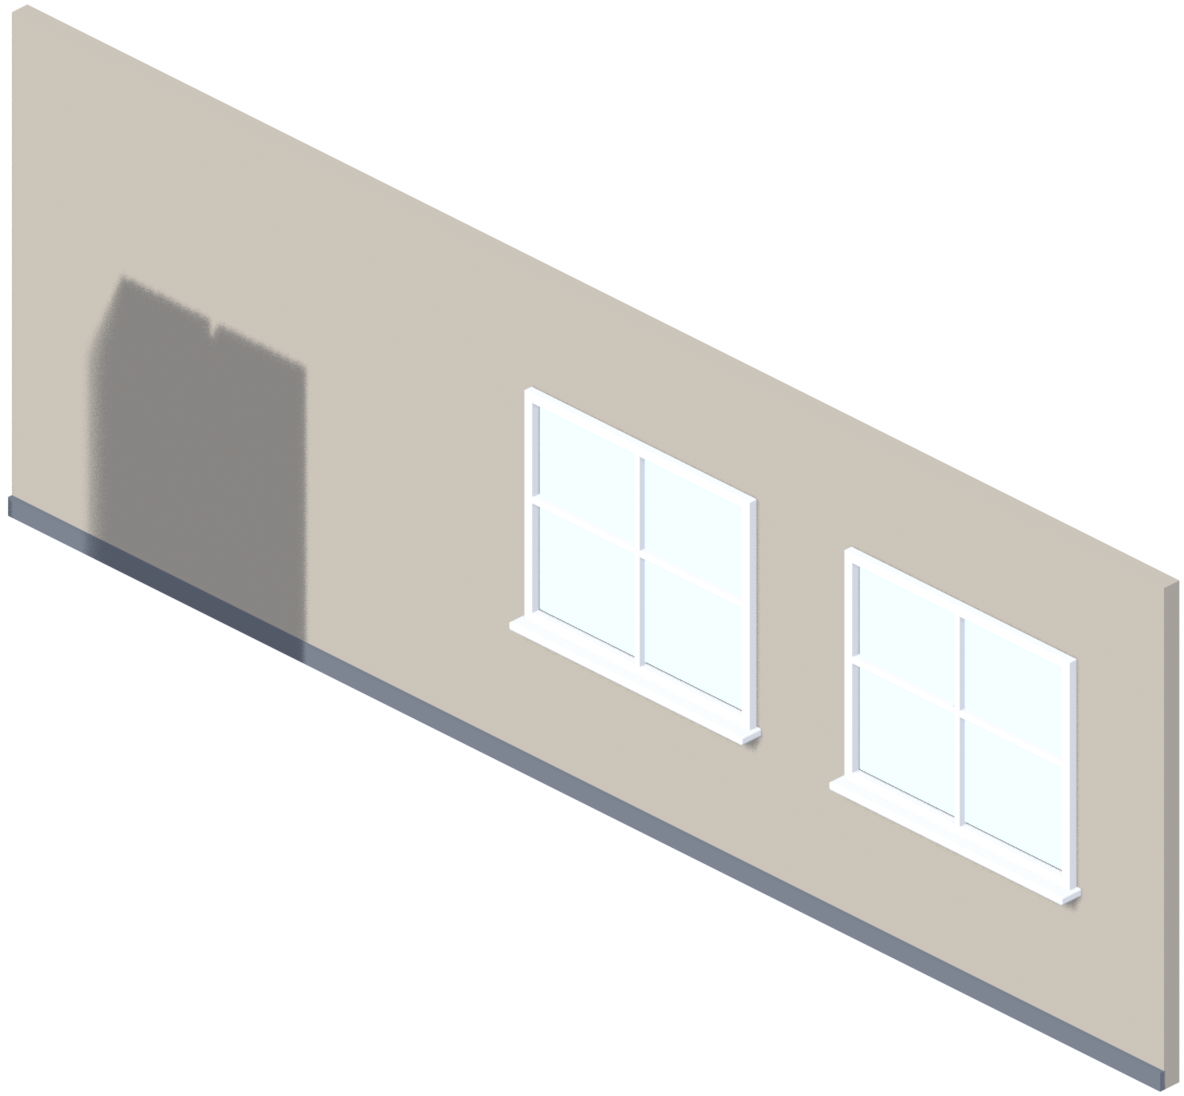
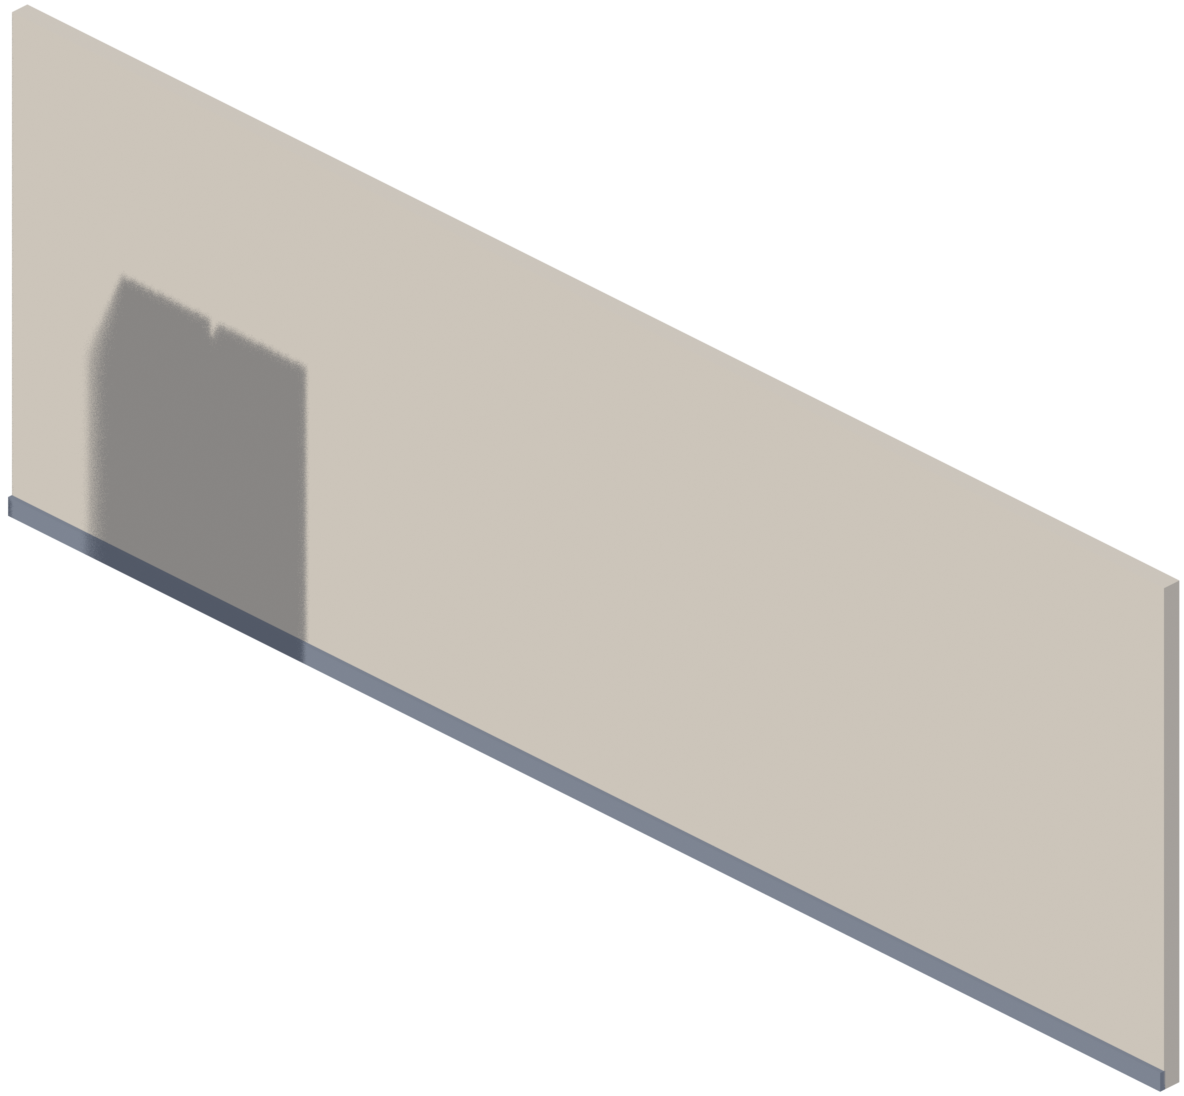
feat: ventanas de la oficina como objetos movibles
Las dos ventanas dejan de estar horneadas en la pared derecha: son la pieza
ventana_oficina (catálogo, no se compra ni se vende) entregada una sola vez
por decoracion_inicial. Guardado v5 con decor/initial_granted.

Claude-Session: https://claude.ai/code/session_01MoZC4xnJwJKycZ2xWZAqok

Changed region(s): [[0.6875, 0.4964, 0.9375, 0.8376], [0.4375, 0.3412, 0.6562, 0.6825]]

diff --git a/source_art/blender/build_office.py b/source_art/blender/build_office.py
@@ -2,7 +2,7 @@
 Oficina (etapa 2 · Scale-up) — Server Flow 2D.
 Cuarto 9x9 m. Conserva escritorio, silla, avatar y puerta en la MISMA posición del mundo que el garage,
 así sus sprites se reutilizan con un desplazamiento (dx, dy). Los racks se mueven a la pared derecha.
-Renderiza a 2x: piso (3 variantes), pared_izq (10), pared_der (10), capa 'ventanas' (luz),
+Renderiza a 2x: piso (3 variantes), pared_izq (10), pared_der (10; sin ventanas),
 y escribe office_meta.json con: lienzo, proyección mundo→píxel (para colocación libre),
 desplazamientos de los sprites reutilizados y zonas ocupadas.
 Uso: python3 build_office.py <salida> <menu.png> [preview]
@@ -41,14 +41,8 @@ def build_office():
     # puerta: misma posición que el garage
     cube("Puerta", (0.02, 4.9, 1.05), (0.05, 1.0, 2.1), M["puerta"], 0.01, r)
     cube("Manija", (0.07, 4.5, 1.0), (0.05, 0.08, 0.05), M["manija"], 0.005, r)
-    # ventanas en la pared derecha (plano y = N)
-    for x0 in (4.1, 6.6):
-        w = 1.7
-        cube("Ven_Vidrio", (x0 + w/2, N - 0.015, 1.75), (w - 0.1, 0.02, 1.3), M["vidrio"], 0, r)
-        cube("Ven_Cielo", (x0 + w/2, N - 0.012, 2.05), (w - 0.1, 0.018, 0.55), M["cielo2"], 0, r)
-        for (dx, dz, sw, sh) in [(0, 0.7, w, .06), (0, -0.7, w, .06), (-w/2, 0, .06, 1.46), (w/2, 0, .06, 1.46), (0, 0, .04, 1.4), (0, 0.05, w, .04)]:
-            cube("Ven_Marco", (x0 + w/2 + dx, N - 0.04, 1.75 + dz), (sw, 0.06, sh), M["marco_ven"], 0.005, r)
-        cube("Ven_Repisa", (x0 + w/2, N - 0.08, 1.0), (w + 0.12, 0.16, 0.05), M["marco_ven"], 0.01, r)
+    # Las 2 ventanas de la pared derecha YA NO van en el muro: son la pieza de catálogo 'ventana_oficina'
+    # (build_decor.py), que se coloca, mueve y guarda como cualquier otro objeto de pared.
     # pizarrón en la pared izquierda (plano x = 0) con el boceto del equipo
     cube("Pizarron_Marco", (0.02, 7.4, 1.9), (0.04, 2.2, 1.3), M["marco"], 0.01, r)
     cube("Pizarron", (0.05, 7.4, 1.9), (0.03, 2.08, 1.18), M["pizarron"], 0, r)
@@ -131,7 +125,7 @@ ALL = [o for o in sc.objects if o.type == "MESH"]
 LAYERS = {
     "piso": [o for o in office.children if o.name.startswith(("Piso", "Junta"))],
     "pared_izq": [o for o in office.children if o.name.startswith(("Pared_Izq", "Zoclo_Izq", "Pizarron", "Trazo"))],
-    "pared_der": [o for o in office.children if o.name.startswith(("Pared_Der", "Zoclo_Der", "Ven_"))],
+    "pared_der": [o for o in office.children if o.name.startswith(("Pared_Der", "Zoclo_Der"))],
 }
 def only(objs, path):
     keep = set(objs)
@@ -150,12 +144,16 @@ if PREVIEW:
     sc.render.filepath = f"{OUTDIR}/preview_oficina.png"; bpy.ops.render.render(write_still=True)
     print("PREVIEW OK", W, H); sys.exit(0)
 
-for d in ("piso", "pared_izq", "pared_der"): os.makedirs(f"{OUTDIR}/2x/{d}", exist_ok=True)
-for vid, name, hx, seam in PAL_PISO:
-    setcol("piso_of", hx); setcol("junta", seam); only(LAYERS["piso"], f"{OUTDIR}/2x/piso/{vid}.png")
+# CAPAS="pared_der" (variable de entorno) renderiza solo esas capas; por defecto, todas.
+CAPAS = os.environ.get("CAPAS", "piso,pared_izq,pared_der").split(",")
+for d in CAPAS: os.makedirs(f"{OUTDIR}/2x/{d}", exist_ok=True)
+if "piso" in CAPAS:
+    for vid, name, hx, seam in PAL_PISO:
+        setcol("piso_of", hx); setcol("junta", seam); only(LAYERS["piso"], f"{OUTDIR}/2x/piso/{vid}.png")
 for v in PARED:
-    setcol("pared_izq", v["color"]); only(LAYERS["pared_izq"], f"{OUTDIR}/2x/pared_izq/{v['id']}.png")
-    setcol("pared_der", v["color"]); only(LAYERS["pared_der"], f"{OUTDIR}/2x/pared_der/{v['id']}.png")
+    for capa in ("pared_izq", "pared_der"):
+        if capa in CAPAS:
+            setcol(capa, v["color"]); only(LAYERS[capa], f"{OUTDIR}/2x/{capa}/{v['id']}.png")
 
 # ---------------- metadatos ----------------
 ex = [RIGHT.x * PPM2, -UP.x * PPM2]; ey = [RIGHT.y * PPM2, -UP.y * PPM2]; ez = [RIGHT.z * PPM2, -UP.z * PPM2]

diff --git a/source_art/blender/build_decor.py b/source_art/blender/build_decor.py
@@ -400,6 +400,33 @@ def ventana_2(r):
         o = bpy.context.active_object; o.scale = (1, 0.45, 1); o.parent = r; o.data.materials.append(C("v2_amarre", "#8c7a62", .8))
     return (0.9, 0.09), "pared"
 
+def ventana_oficina(r):
+    # La ventana original de la pared derecha de la oficina (antes dibujada en el muro): marco blanco de 2 hojas
+    # con travesaño, vidrio y repisa. Gratis, se puede mover y guardar pero no vender.
+    # Frente hacia -Y, respaldo en y = 0.16: el vidrio queda pegado al muro y el marco al frente.
+    w, d = 1.7, 0.16
+    marco = C("vo_marco", "#eef1f4", .5)
+    vidrio = C("vo_vidrio", "#9fcfe8", .12, 0.12)
+    brillo = C("vo_brillo", "#e8f6fc", .1, 0.5)
+    cube("Vidrio", (w / 2, d - 0.015, 1.75), (w - 0.1, 0.02, 1.3), vidrio, 0, r)
+    # reflejos del cristal: dos franjas claras en diagonal en cada uno de los 4 paneles
+    # (paralelogramos sueltos: así no dependen de rotaciones ni del padre).
+    for px in (0.06, 0.87):
+        for (z0, z1) in ((1.08, 1.78), (1.82, 2.42)):
+            alto = (z1 - z0) * 0.55
+            zc = (z0 + z1) / 2
+            for dx, ancho in ((0.24, 0.07), (0.38, 0.025)):
+                x0 = px + dx
+                v = [(x0, d - 0.027, zc - alto / 2), (x0 + ancho, d - 0.027, zc - alto / 2),
+                     (x0 + ancho + alto * 0.45, d - 0.027, zc + alto / 2), (x0 + alto * 0.45, d - 0.027, zc + alto / 2)]
+                me = bpy.data.meshes.new("Brillo"); me.from_pydata(v, [], [(0, 1, 2, 3)]); me.update()
+                o = bpy.data.objects.new("Brillo", me); sc.collection.objects.link(o)
+                o.data.materials.append(brillo); o.parent = r
+    for (dx, dz, sw, sh) in [(0, 0.7, w, .06), (0, -0.7, w, .06), (-w / 2 + .03, 0, .06, 1.46), (w / 2 - .03, 0, .06, 1.46), (0, 0, .04, 1.4), (0, 0.05, w, .04)]:
+        cube("Marco", (w / 2 + dx, d - 0.04, 1.75 + dz), (sw, 0.06, sh), marco, 0.005, r)
+    cube("Repisa", (w / 2, d - 0.08, 1.0), (w, 0.16, 0.05), marco, 0.01, r)
+    return (w, d), "pared"
+
 def cuadro_2(r):
     marco, lienzo = C("cq2m", "#3b2a1c", .6), C("cq2l", "#f0e6d2", .8)
     cube("Marco", (0.45, 0.025, 1.6), (0.9, 0.05, 0.7), marco, 0.01, r)
@@ -605,6 +632,8 @@ CATALOGO = [
   ("florero", "Florero", florero, 100), ("osito", "Osito", osito, 80), ("balon_voli", "Balón de voli", balon_voli, 60),
   ("colocador", "Colocador", colocador, 220), ("lampara_2", "Lámpara — diseño 2", lampara_2, 210),
   ("computadora_doble", "Computadora (doble monitor)", computadora_doble, 1500),
+  # Ventana original de la oficina (gratis; ya no está dibujada en el muro)
+  ("ventana_oficina", "Ventana de la oficina", ventana_oficina, 0),
 ]
 
 # ---------------- cámara y render ----------------

diff --git a/docs/CONTEXTO.md b/docs/CONTEXTO.md
@@ -75,11 +75,12 @@ HUD (empresa · etapa; bloque de **progreso de la oleada**: oleada, monedas, usu
 - **Tamaño del catálogo extra:** las 2 zonas de pared del data center (`zonas_catalogo_extra`) miden 1.1 m (`pared_izq_1`) y 0.8 m (`pared_izq_2`). Las referencias personales de pared deben medir **≤ 0.8 m de ancho** para caber en cualquiera de las dos, o se amplían las zonas más adelante. El cuadro actual (0.9 m) solo cabe en la de 1.1 m y el neón (1.4 m) en ninguna.
 - **Ancla de los sprites:** el `ancla` de cada orientación en `catalogo.json` es el píxel del punto (0,0,0) del objeto, que es la **esquina mínima de su huella** (no el centro). El `Node2D` de cada objeto va en `world_to_canvas` del centro de la huella (para el `y_sort`) y su `Sprite2D` en `proj(esquina mínima) − proj(centro) − ancla`.
 - **Muros con altura:** los objetos de pared (cuadro z 1.25–1.95 m, neón z 1.95–2.45 m, en `altura_m` del catálogo) ocupan en el muro su tramo × su altura. Las zonas prohibidas (`tramos_prohibidos_pared` en `data/rooms/oficina.json`) también tienen tramo y altura, y solo chocan si se enciman en los dos:
-  - pared derecha: ventanas x 4.0–5.9 y 6.5–8.4 (z 1.0–2.5); racks x 0.0–2.5 (z 0–2.05);
+  - pared derecha: racks x 0.0–2.5 (z 0–2.05). Las **ventanas de la oficina ya no están en el arte ni son zona prohibida**: son la pieza de catálogo `ventana_oficina` (ver «Decoración inicial» abajo);
   - pared izquierda: puerta y 4.3–5.5 (z 0–2.15); pizarrón y 6.2–8.6 (z 1.25–2.55); monitor del escritorio y 1.1–3.5 (z 0.75–1.6).
   En el data center (`data/rooms/data_center.json`) la pared derecha tiene el bay (x 5.3–12, z 0–3.2) y el **riel superior del vidrio** (`riel_vidrio`): no toca el muro, pero en pantalla lo cruza en diagonal de x ≈ 0.9 (z 0) a x ≈ 5.0 (z 3.2), así que se guarda como tramos de 0.5 m, cada uno con la z que cubre el riel ahí (p. ej. x 2.5–3.0 → z 1.19–1.73).
   Por eso el neón cabe sobre el escritorio. Dos objetos del mismo muro siguen la misma regla (un neón puede ir encima de un cuadro).
   - **Altura movible:** cada objeto de pared guarda `dz` (metros, pasos de 0.25, se suma a `altura_m`; sin `dz` = altura base, así las partidas viejas siguen igual). Al arrastrar en el muro el objeto sigue el dedo/mouse también hacia arriba y abajo; el centro del objeto queda entre 0.25 m y el techo (`alto_muro_m` en el JSON del cuarto: oficina 2.6, data center 3.2). Es lo que permite colgar ventanas, cuadros y posters por encima del riel del vidrio del data center. `DecorLayout.find_valid_dz()` busca la altura libre más cercana (se usa al sacar un objeto de la tienda y al girar), al girar y mientras se arrastra: si a la altura del dedo no cabe pero a otra sí, el fantasma se acomoda solo a la altura libre más cercana (queda verde). En la oficina (muro de 2.6 m) las ventanas no caben sobre el monitor del escritorio; en el data center (3.2 m) sí.
+  - **Decoración inicial:** un cuarto puede entregar piezas ya colocadas con `decoracion_inicial.lista` en su JSON (`RoomData.initial_decor`). La oficina entrega 2 `ventana_oficina` (der, x 4.0 y 6.5, y 8.84), que el jugador puede mover o guardar en el inventario. Se entregan **una sola vez por cuarto** (`GameState.decor_initial_granted`, guardado en `decor/initial_granted`, `SAVE_VERSION` 5; una partida vieja sin la marca las recibe al abrir la oficina). Al cambiar de etapa vuelven al inventario como cualquier objeto. En el catálogo, `"en_tienda": false` las oculta de la pestaña Tienda y `"vendible": false` quita el botón Vender (`DecorData.can_sell()`; el trofeo también). El arte de la oficina (`build_office.py`) ya no dibuja ventanas; la ventana sale de `build_decor.py` (`ventana_oficina`). El catálogo tiene 31 piezas.
 
 ## 8. Estado (actualiza esta sección en cada PR grande)
 - **v0.4.0 (en `main`, tag `v0.4.0`):** todo lo de v0.3.1 (garage personalizable, dashboard jugable con 3 etapas, ajustes, balance de la etapa 1, exportación Android/Windows, capas recortadas) más:
